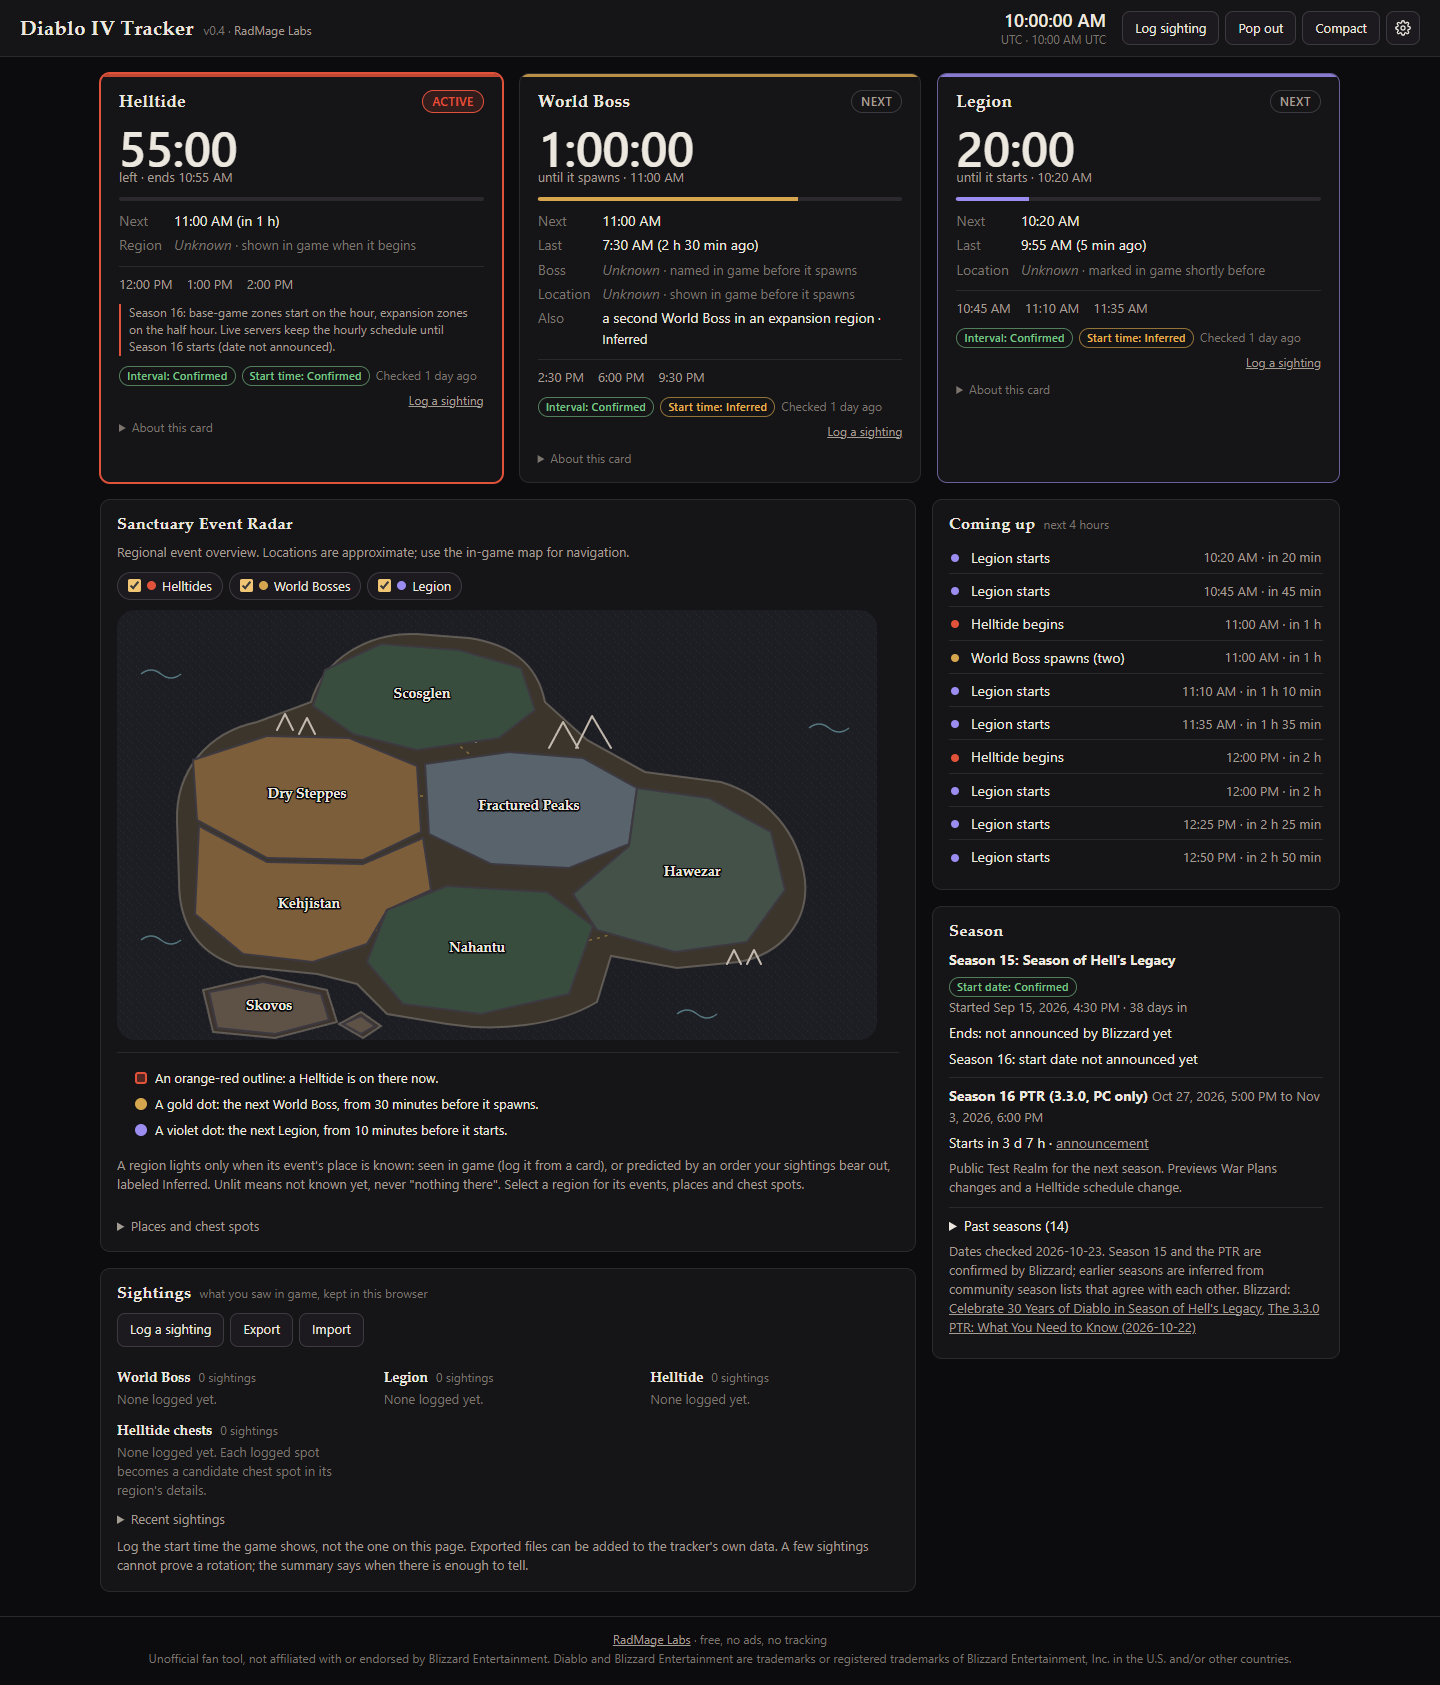
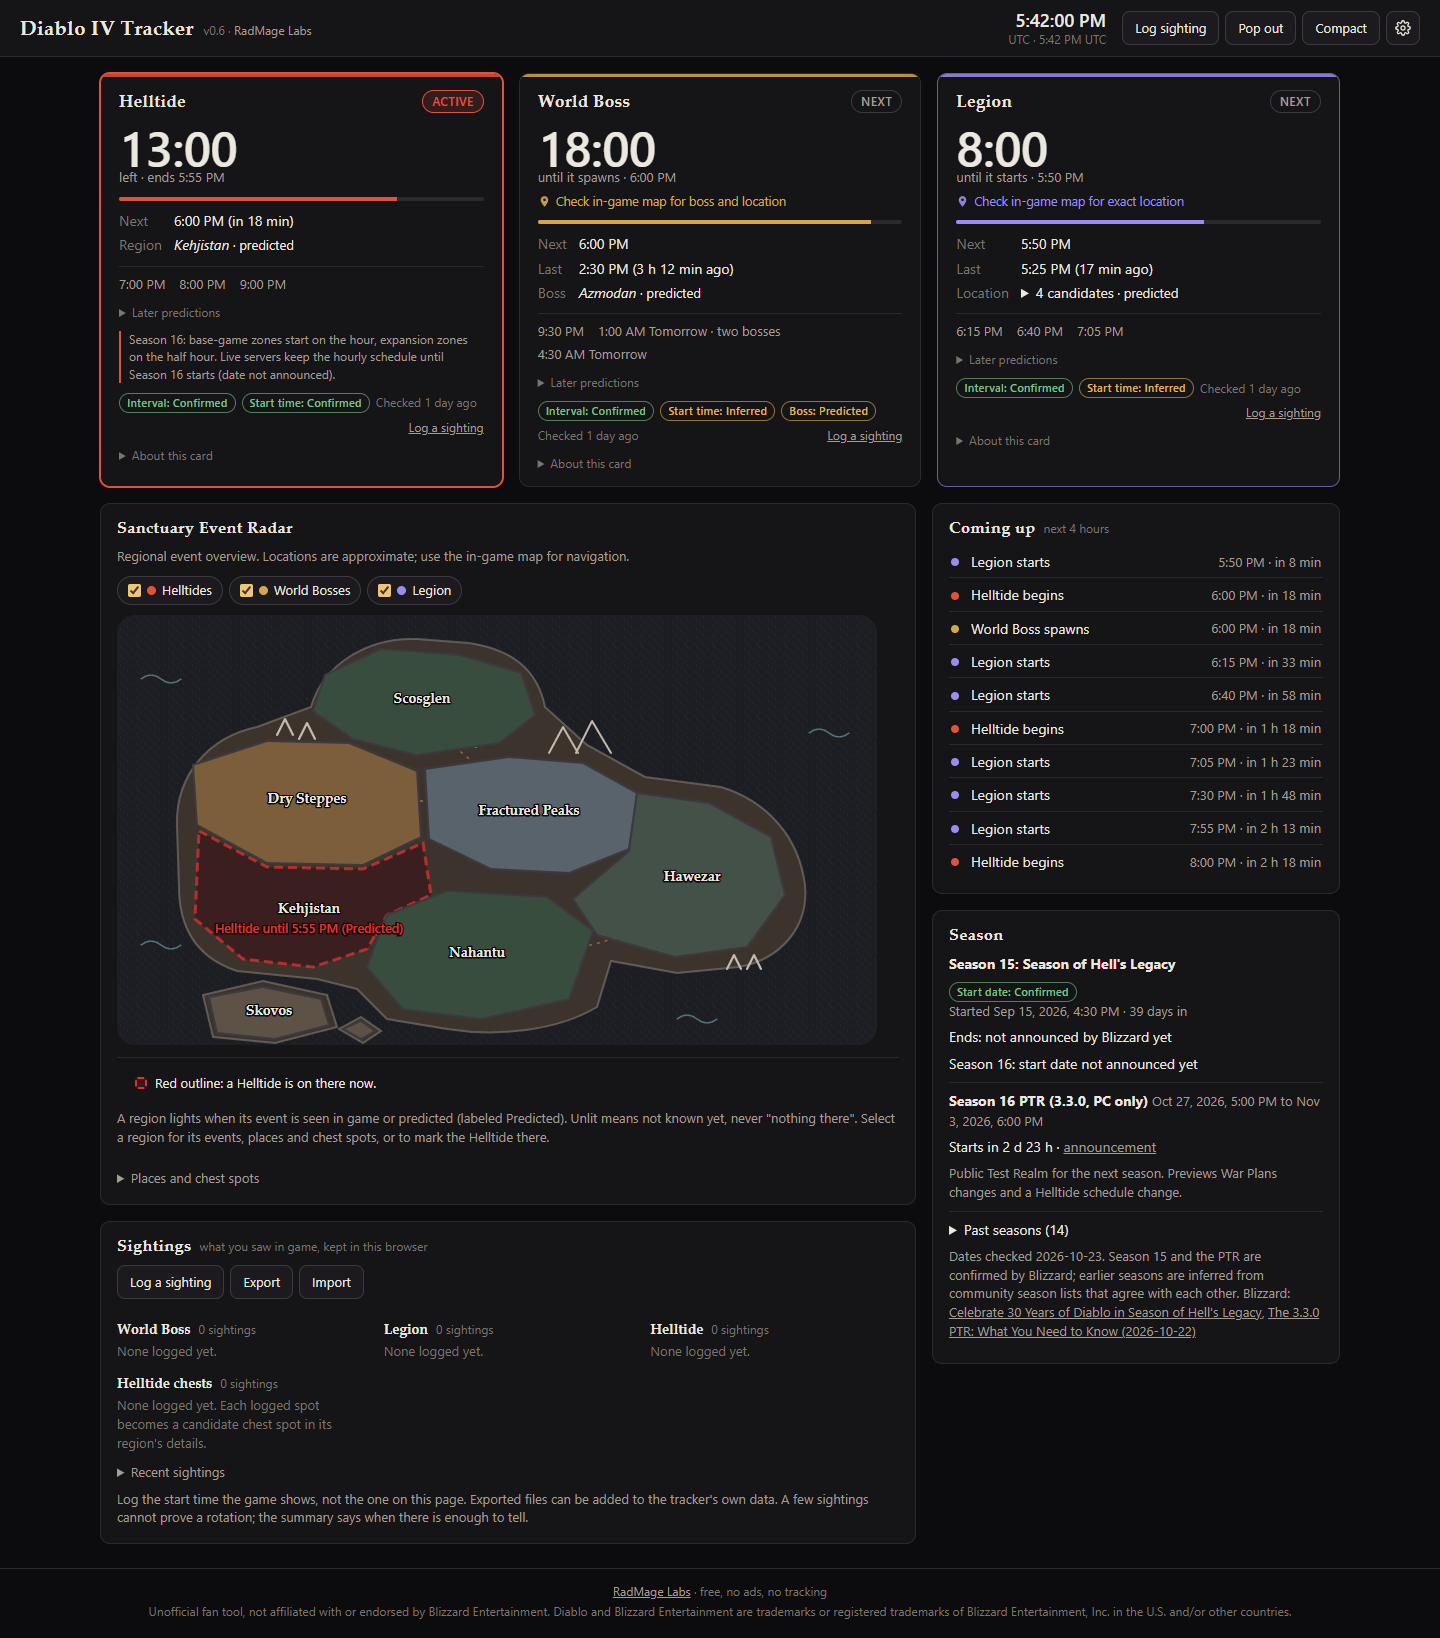
CHANGELOG and README screenshot: v0.5.0 and v0.6.0, released 2026-10-24

diff --git a/README.md b/README.md
@@ -7,7 +7,7 @@ your browser from rules kept in this repository; it does not depend on any other
 
 Live at https://radmagelabs.com/d4/
 
-![Diablo IV Tracker at 10:00 AM UTC on a first visit: a Helltide just began with 55:00 left and its card glows; the World Boss spawns in an hour and brings a second one in an expansion region (Inferred); the next Legion is in 20 minutes; boss and places show as Unknown with the reason; confidence badges; the Sanctuary Event Radar with nothing lit, since no event's place is known yet on a first visit; the coming-up timeline, the empty sightings log and the Season 15 panel](screenshots/dashboard.png)
+![Diablo IV Tracker v0.6 at 5:42 PM UTC on a first visit: an active Helltide with 13:00 left, predicted in Kehjistan, which the Sanctuary Event Radar outlines in red; the World Boss in 18:00 with its predicted boss, Azmodan, and a prompt to check the in-game map for boss and location; the next Legion in 8:00 with its four candidate sites folded and a prompt to check the in-game map; the coming-up timeline, the empty sightings log and the Season 15 panel](screenshots/dashboard.png)
 
 ## What it shows
 

diff --git a/CHANGELOG.md b/CHANGELOG.md
@@ -1,6 +1,6 @@
 # Changelog
 
-## v0.6.0 (unreleased)
+## v0.6.0 (2026-10-24)
 
 - Helltide region predictions. The Helltide card names the region of the Helltide in progress,
   base-game and expansion, labeled Predicted, and the Event Radar lights it with a dashed,
@@ -25,8 +25,9 @@
   arena order holds in tracker records. The boss is still predicted, and the arena list stays.
 - Less on the cards: a Boss or Location row with nothing known yet stays hidden (the reason is under
   About this card).
+- The README screenshot shows v0.6.
 
-## v0.5.0 (unreleased)
+## v0.5.0 (2026-10-24)
 
 - World Boss predictions. The card names the boss and arena of the next spawn, labeled Predicted
   (later spawns' predictions are folded under "Later predictions"), and the Event Radar lights the
